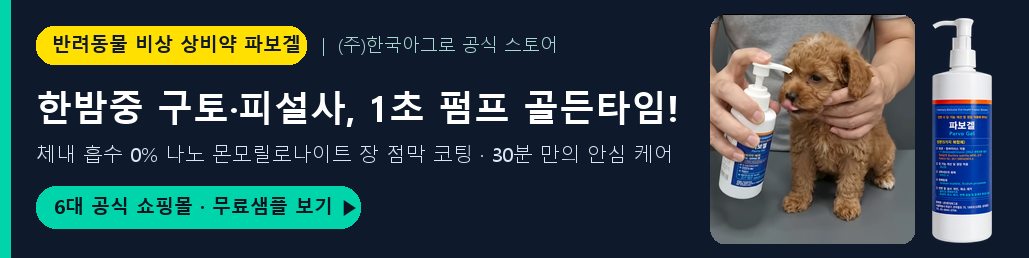
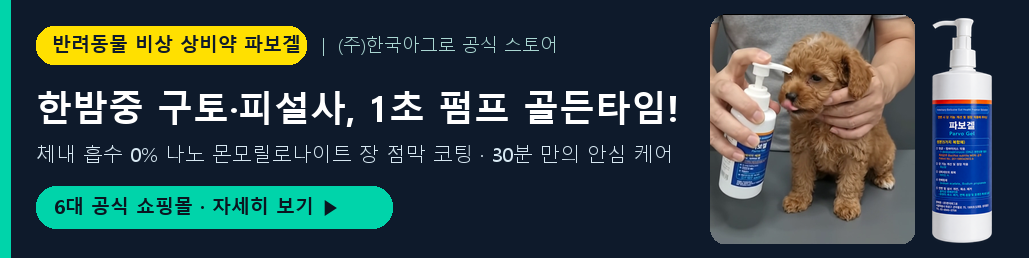
chore: restrict free-sample messaging strictly to B2B breeders & petshops across ads and landing nav

Changed region(s): [[0.1866, 0.7132, 0.4043, 0.8992]]

diff --git a/src/pages/Landing.jsx b/src/pages/Landing.jsx
@@ -725,7 +725,7 @@ const Landing = () => {
                                 target="_blank"
                                 rel="noopener noreferrer"
                                 className="inline-flex items-center gap-1.5 px-3.5 py-2 rounded-full text-xs font-black bg-[#FEE500] hover:bg-[#FDD800] text-[#191919] shadow-sm hover:scale-105 active:scale-95 transition-all border border-amber-300"
-                                aria-label="카카오톡 1:1 상담 및 샘플 신청"
+                                aria-label="카카오톡 1:1 상담"
                             >
                                 <span className="text-sm">💬</span>
                                 <span>카톡 1:1 상담</span>
@@ -815,7 +815,7 @@ const Landing = () => {
                                 >
                                     <span className="flex items-center gap-2">
                                         <span className="text-base">💬</span>
-                                        <span>카카오톡 1:1 상담 / 샘플 문의</span>
+                                        <span>카카오톡 1:1 상담 / 구매 문의</span>
                                     </span>
                                     <span className="text-xs font-bold text-amber-900">
                                         실시간 연결 ➔

diff --git a/marketing_factory/core/content_formatter.py b/marketing_factory/core/content_formatter.py
@@ -116,7 +116,7 @@ class ParvogelContentFormatter:
 ✅ 1-deoxinojirimycin 특허성분 + 천연 몬모릴로나이트 장 점막 실크 코팅
 ✅ 급여 3일 만에 그릇까지 싹싹 핥아먹는 기적의 식욕 회복!
 
-📹 7일간의 무편집 회복 영상 & 무료 샘플 안내: {links['landing']}
+📹 7일간의 무편집 회복 영상 & 상세 안내: {links['landing']}
 🟢 네이버 스마트스토어: {links['smartstore']}
 🚀 쿠팡 로켓배송: {links['coupang']}
 🟡 G마켓 공식스토어: {links['gmarket']}
@@ -400,7 +400,7 @@ class ParvogelContentFormatter:
         description = f"""{n.get('subheadline', '쓰러진 55일령 강아지의 기적의 7일 회복 실화 직캠!')}
 주사기 없이 1초 펌프로 입안에 꿀꺽!
 
-📹 풀영상 & 펫샵/브리더 무료샘플 확인: {links['landing']}
+📹 풀영상 & 공식 상세 안내: {links['landing']}
 🟢 네이버 스마트스토어: {links['smartstore']}
 🚀 쿠팡 로켓배송: {links['coupang']}
 🟡 G마켓: {links['gmarket']}
@@ -432,7 +432,7 @@ class ParvogelContentFormatter:
 
 ✨ {video_hl}
 
-프로필 링크에서 무편집 원본 직캠 및 무료 샘플 정보를 확인하세요! 
+프로필 링크에서 무편집 원본 직캠 및 공식 안내를 확인하세요! 
 👉 @parvogel_official
 
 구매처 안내 (공식 6대 쇼핑몰 입점):

diff --git a/marketing_factory/core/custom_video_dispatcher.py b/marketing_factory/core/custom_video_dispatcher.py
@@ -140,7 +140,7 @@ def default_golden_time_campaign() -> Dict[str, Any]:
             "🧲 체내 흡수 0%! 초미세 나노 몬모릴로나이트 장 점막 코팅 & 독소 선택 흡착\n"
             "🐾 달콤한 기호성 + 주사기 없는 1초 원터치 펌프로 스트레스 없는 급여\n"
             "✨ 30분 만에 복통·구토 완화 & 다음 날 아침 기적 같은 정상변·식욕 회복!\n\n"
-            f"▶ 공식 안내/신청 (주)한국아그로: {OFFICIAL_LINKS['landing']}\n"
+            f"▶ 공식 홈페이지/안내 (주)한국아그로: {OFFICIAL_LINKS['landing']}\n"
             f"▶ 네이버 스마트스토어: {OFFICIAL_LINKS['smartstore']}\n"
             f"▶ 쿠팡 로켓배송: {OFFICIAL_LINKS['coupang']}\n"
             f"▶ G마켓/옥션 공식: {OFFICIAL_LINKS['gmarket']}\n"
